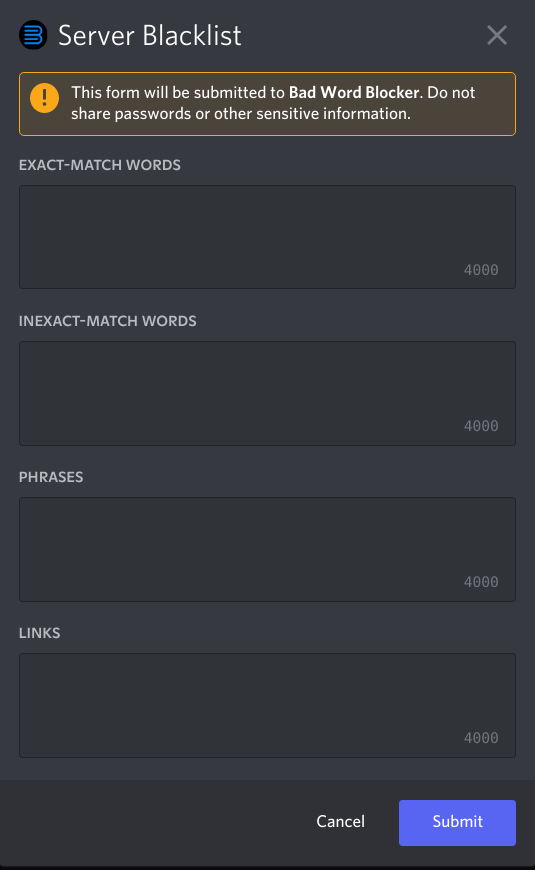
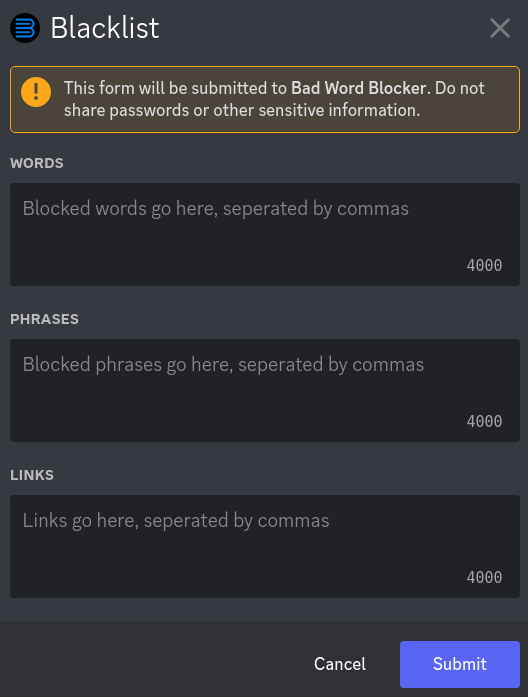
Stuff

diff --git a/docs/blacklisting.rst b/docs/blacklisting.rst
@@ -16,13 +16,10 @@ When you run `/blacklist`, you'll be prompted with a popup like this:
 .. note::
     When you run it for the first time, you'll see that it'll be filled with defaults. Change it however you want.
 
-As you can see in the image, it's seperated into 4 sections:
+As you can see in the image, it's seperated into 3 sections:
 
-Exact-match words
-    Words that will be blocked only if they are found *exactly* as they are written in the blacklist. So for example, if you add the word "suck" here, it will *only* block "suck". Not "sucked", "sucking", "sucker", or any other forms.
-
-Inexact-match words
-    Opposite to the above section. Words that will be blocked if they found *exactly* or *inexactly*. So for example, if you add the word "screw" here, it will block "screw", "screwed", "screwing", and all other forms. It will also try to detect attempted bypasses by purposely mispelling words, adding symbols, and/or others.
+Words
+    This section is for individual bad words. If you wish to block words that are not swear words, read the FAQ below. 
 
 Phrases
     This section is for when you want to block a *group* of 2 or more words, instead of individual ones. You can add phrases like "screw you" here, for example.
@@ -40,7 +37,7 @@ Just type in the items you wish to add, seperated by a comma, and press `Submit`
 Adding non-swear items
 ======================
 
-While the bot is meant for blocking bad words, links, and phrases, it can also block normal ones if you add them. **Note:** If you are adding non-swear words to the **inexact** match, you HAVE to put an underscore (a ``_``) in front of the good words, in the blacklist. Read the below FAQ section for more information as to why this needs to be done.
+While the bot is meant for blocking bad words, links, and phrases, it can also block normal ones if you add them. **Note:** If you are adding non-swear items to the **words** section, you MUST put an underscore (a ``_``) in front of the non-swear words. Read the below FAQ section for more information as to why this needs to be done.
 
 =============
 Blacklist FAQ
@@ -48,7 +45,7 @@ Blacklist FAQ
 
 **Question**: What does an underscore in front of a blacklisted word mean?
 
-**Answer**: In the English language, there are some bad words in normal words (e.g. **ass**ignment). Normally, if a bad word is detected, the bot would check to make sure the word is not a part of a normal word. Putting an underscore in front of a word tells the bot to skip this step and immediately delete the message. Useful for bad words that are not contained within any normal words.
+**Answer**: In the English language, there are some bad words in normal words (e.g. **ass**ignment). Normally, if a bad word is detected, the bot would check to make sure the word is not a part of a normal word. Putting an underscore in front of a word tells the bot to skip this step and immediately delete the message. Useful for words that are not contained within any normal words.
 
 
 **Question**: Why is nothing getting blocked?
@@ -57,7 +54,7 @@ Blacklist FAQ
 
 - The bot can see the channel's messages, and has the Manage Message permission. You can just give it Administrator to get rid of this problem entirely
 
-- Make sure your blacklist is not empty. If you're trying to block good words in the inexact-match section, put an underscore in front of the good words in the blacklist
+- Make sure your blacklist is not empty. If you're trying to block good words in the words section, put an underscore in front of the good words in the blacklist
 
 - Click on the bot's profile, and check if there's a green dot by it's logo (meaning it's online). If you see a grey, empty circle, it mean's the bot is offline. If this is the case, please join the support server and tell.
 

diff --git a/docs/configuration_and_customization.rst b/docs/configuration_and_customization.rst
@@ -3,10 +3,10 @@ Customization
 
 You can customize how the bot behaves when it blocks a message.
 
-Using ``/customize``
+Using ``/custom_embed``
 ====================
 
-When you run ``/customize``, you'll be prompted with a popup that will have 3 things on it:
+When you run ``/custom_embed``, you'll be prompted with a popup that will have 3 things on it:
 
 Content
     What the bot will send when it blocks a message
@@ -38,3 +38,5 @@ Color
 Delete self after
     How long the bot should wait (in seconds) before it deletes it's own message. Set to 0 to tell it to not delete at all.
 
+Title
+    Title of embed

diff --git a/docs/strikes.rst b/docs/strikes.rst
@@ -14,4 +14,4 @@ When a person gets their message blocked, they will get a "strike". It's just a 
 Viewing and managing strikes
 ----------------------------
 
-To see how many strikes a person has, run ``/strikes``. The bot will send an embed containing their strikes. If you're a moderator, you can press the ``Edit`` button to change their strikes.
+To see how many strikes a person has, run ``/strikes view``. If you're a moderator, you can use ``/strikes set`` to set their strikes.

diff --git a/docs/logs.rst b/docs/logs.rst
@@ -7,4 +7,4 @@ You can tell the bot to notify a channel when a message gets blocked.
 Using ``log``
 ==============
 
-Run ``/log set`` to tell the bot to notify a channel when a message is deleted. Run ``/log remove`` to remove the existing log channel.
+Run ``/log set`` to tell the bot to notify a channel when a message is deleted. Run ``/log manage`` to view/remove the existing log channel.

diff --git a/docs/index.rst b/docs/index.rst
@@ -5,7 +5,7 @@ Welcome
 Welcome to the official documentation for Bad Word Blocker. Please select the topic below
 
 
-.. toctree::
+.. toctree:: 
    before_you_read
    inviting
    blacklisting
